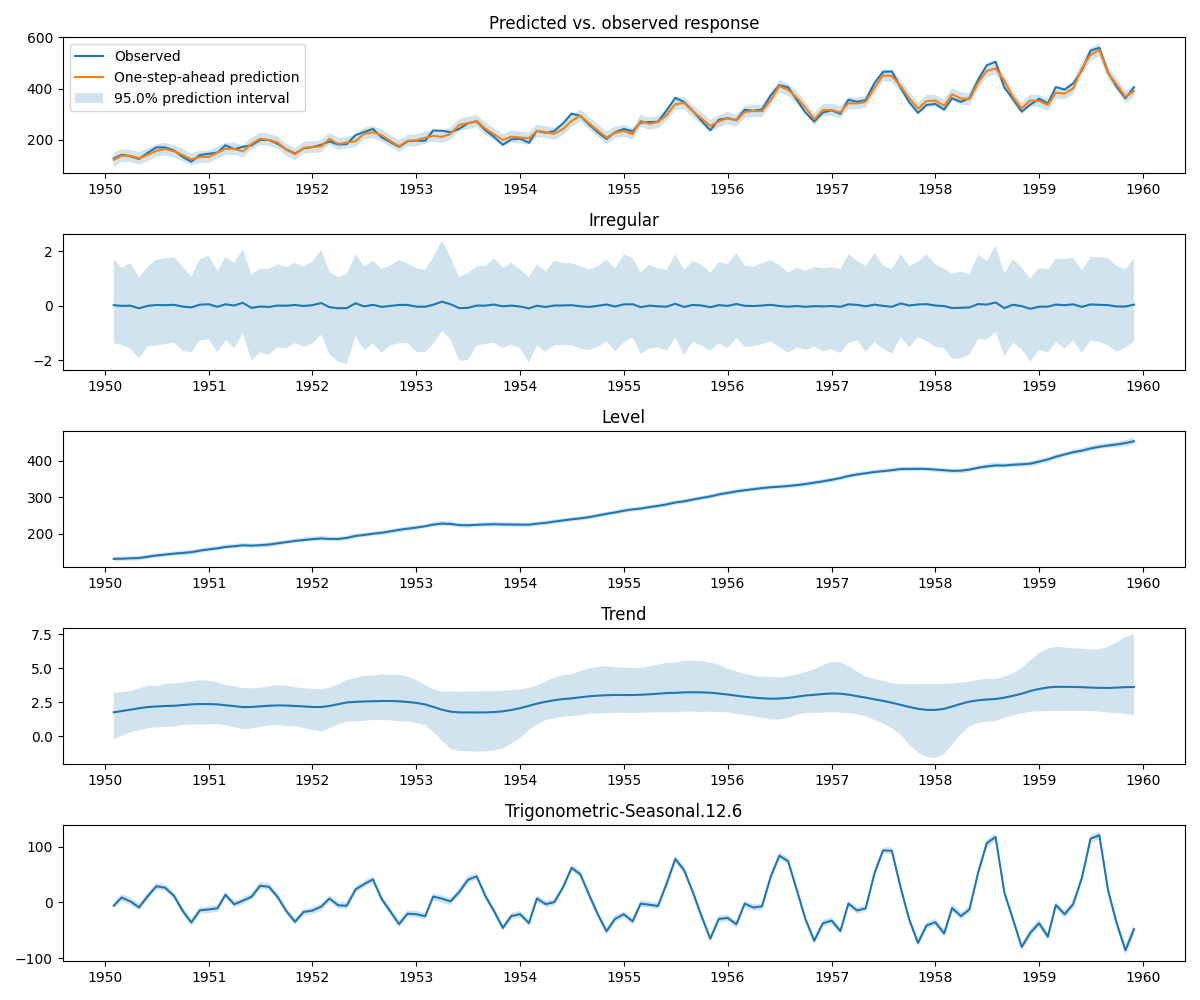
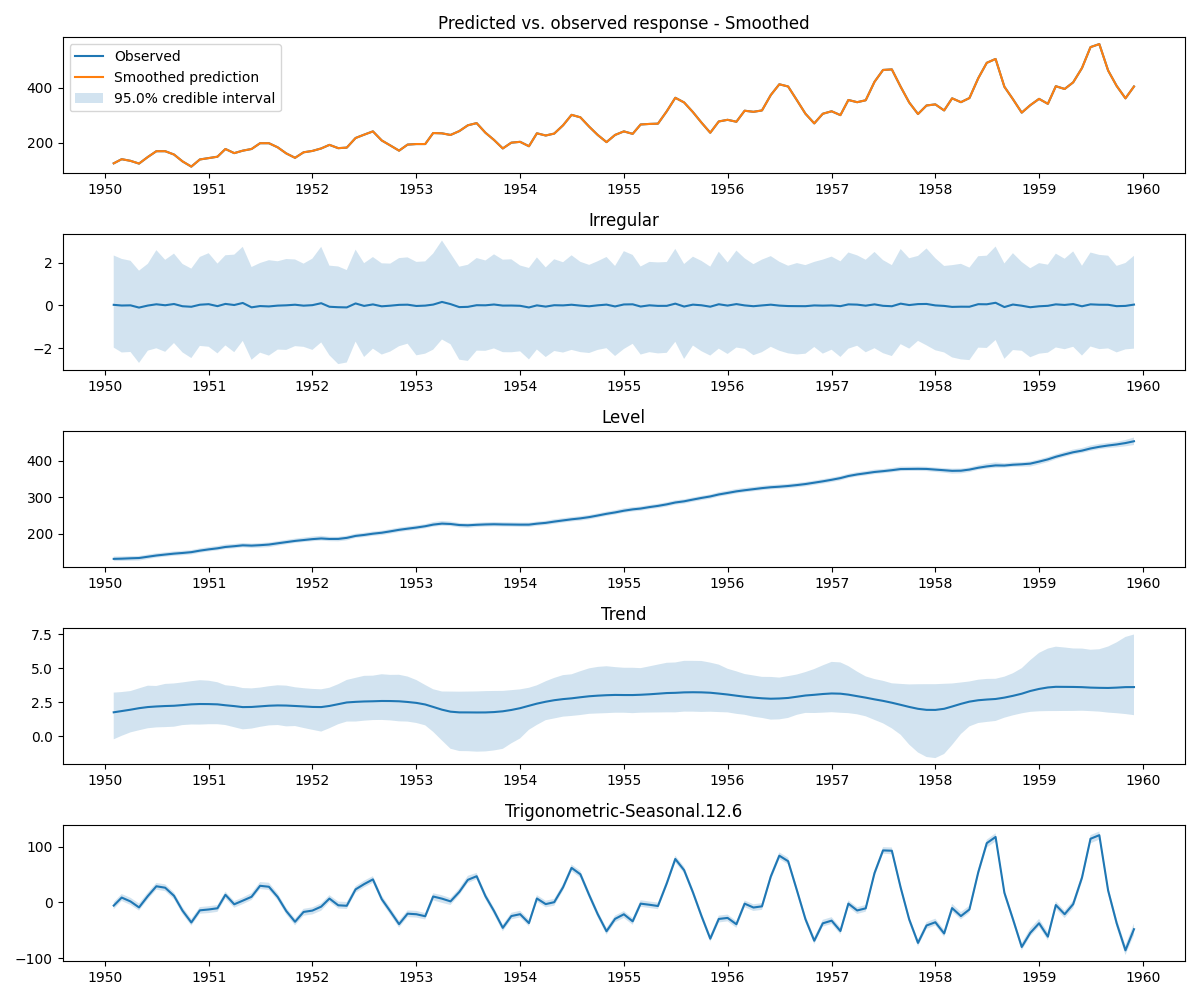
Update to plot_components() method - The plot_components() method in buc.BayesianUnobservedComponents has been updated to more clearly identify the type of Kalman smoothing (filtered or smoothed).

diff --git a/pybuc/buc.py b/pybuc/buc.py
@@ -5,7 +5,6 @@ import matplotlib.pyplot as plt
 import warnings
 from typing import Union, NamedTuple
 import pandas as pd
-
 from .statespace.kalman_filter import kalman_filter as kf
 from .statespace.durbin_koopman_smoother import dk_smoother as dks
 from .utils import array_operations as ao
@@ -3139,6 +3138,7 @@ class BayesianUnobservedComponents:
 
         if smoothed:
             state = self.posterior.smoothed_state[burn:, num_first_obs_ignore:n, :, :]
+            kalman_type = "Smoothed"
         else:
             state = _simulate_posterior_predictive_filtered_state(posterior=self.posterior,
                                                                   state_error_transformation_matrix=R,
@@ -3146,6 +3146,7 @@ class BayesianUnobservedComponents:
                                                                   num_first_obs_ignore=num_first_obs_ignore,
                                                                   random_sample_size_prop=random_sample_size_prop,
                                                                   has_predictors=self.has_predictors)
+            kalman_type = "Filtered"
 
         fig, ax = plt.subplots(1 + len(components))
         fig.set_size_inches(12, 10)
@@ -3154,8 +3155,9 @@ class BayesianUnobservedComponents:
         lb = np.quantile(ppd, cred_int_lb, axis=0)
         ub = np.quantile(ppd, cred_int_ub, axis=0)
         ax[0].fill_between(historical_time_index, lb, ub, alpha=0.2)
-        ax[0].title.set_text('Predicted vs. observed response')
-        ax[0].legend(('Observed', 'One-step-ahead prediction', f'{100 * (1 - cred_int_level)}% credible interval'),
+        ax[0].title.set_text(f"Predicted vs. observed response - {kalman_type}")
+        ax[0].legend(('Observed', f'{kalman_type} prediction',
+                      f'{100 * (1 - cred_int_level)}% credible interval'),
                      loc='upper left')
 
         for i, c in enumerate(components):
